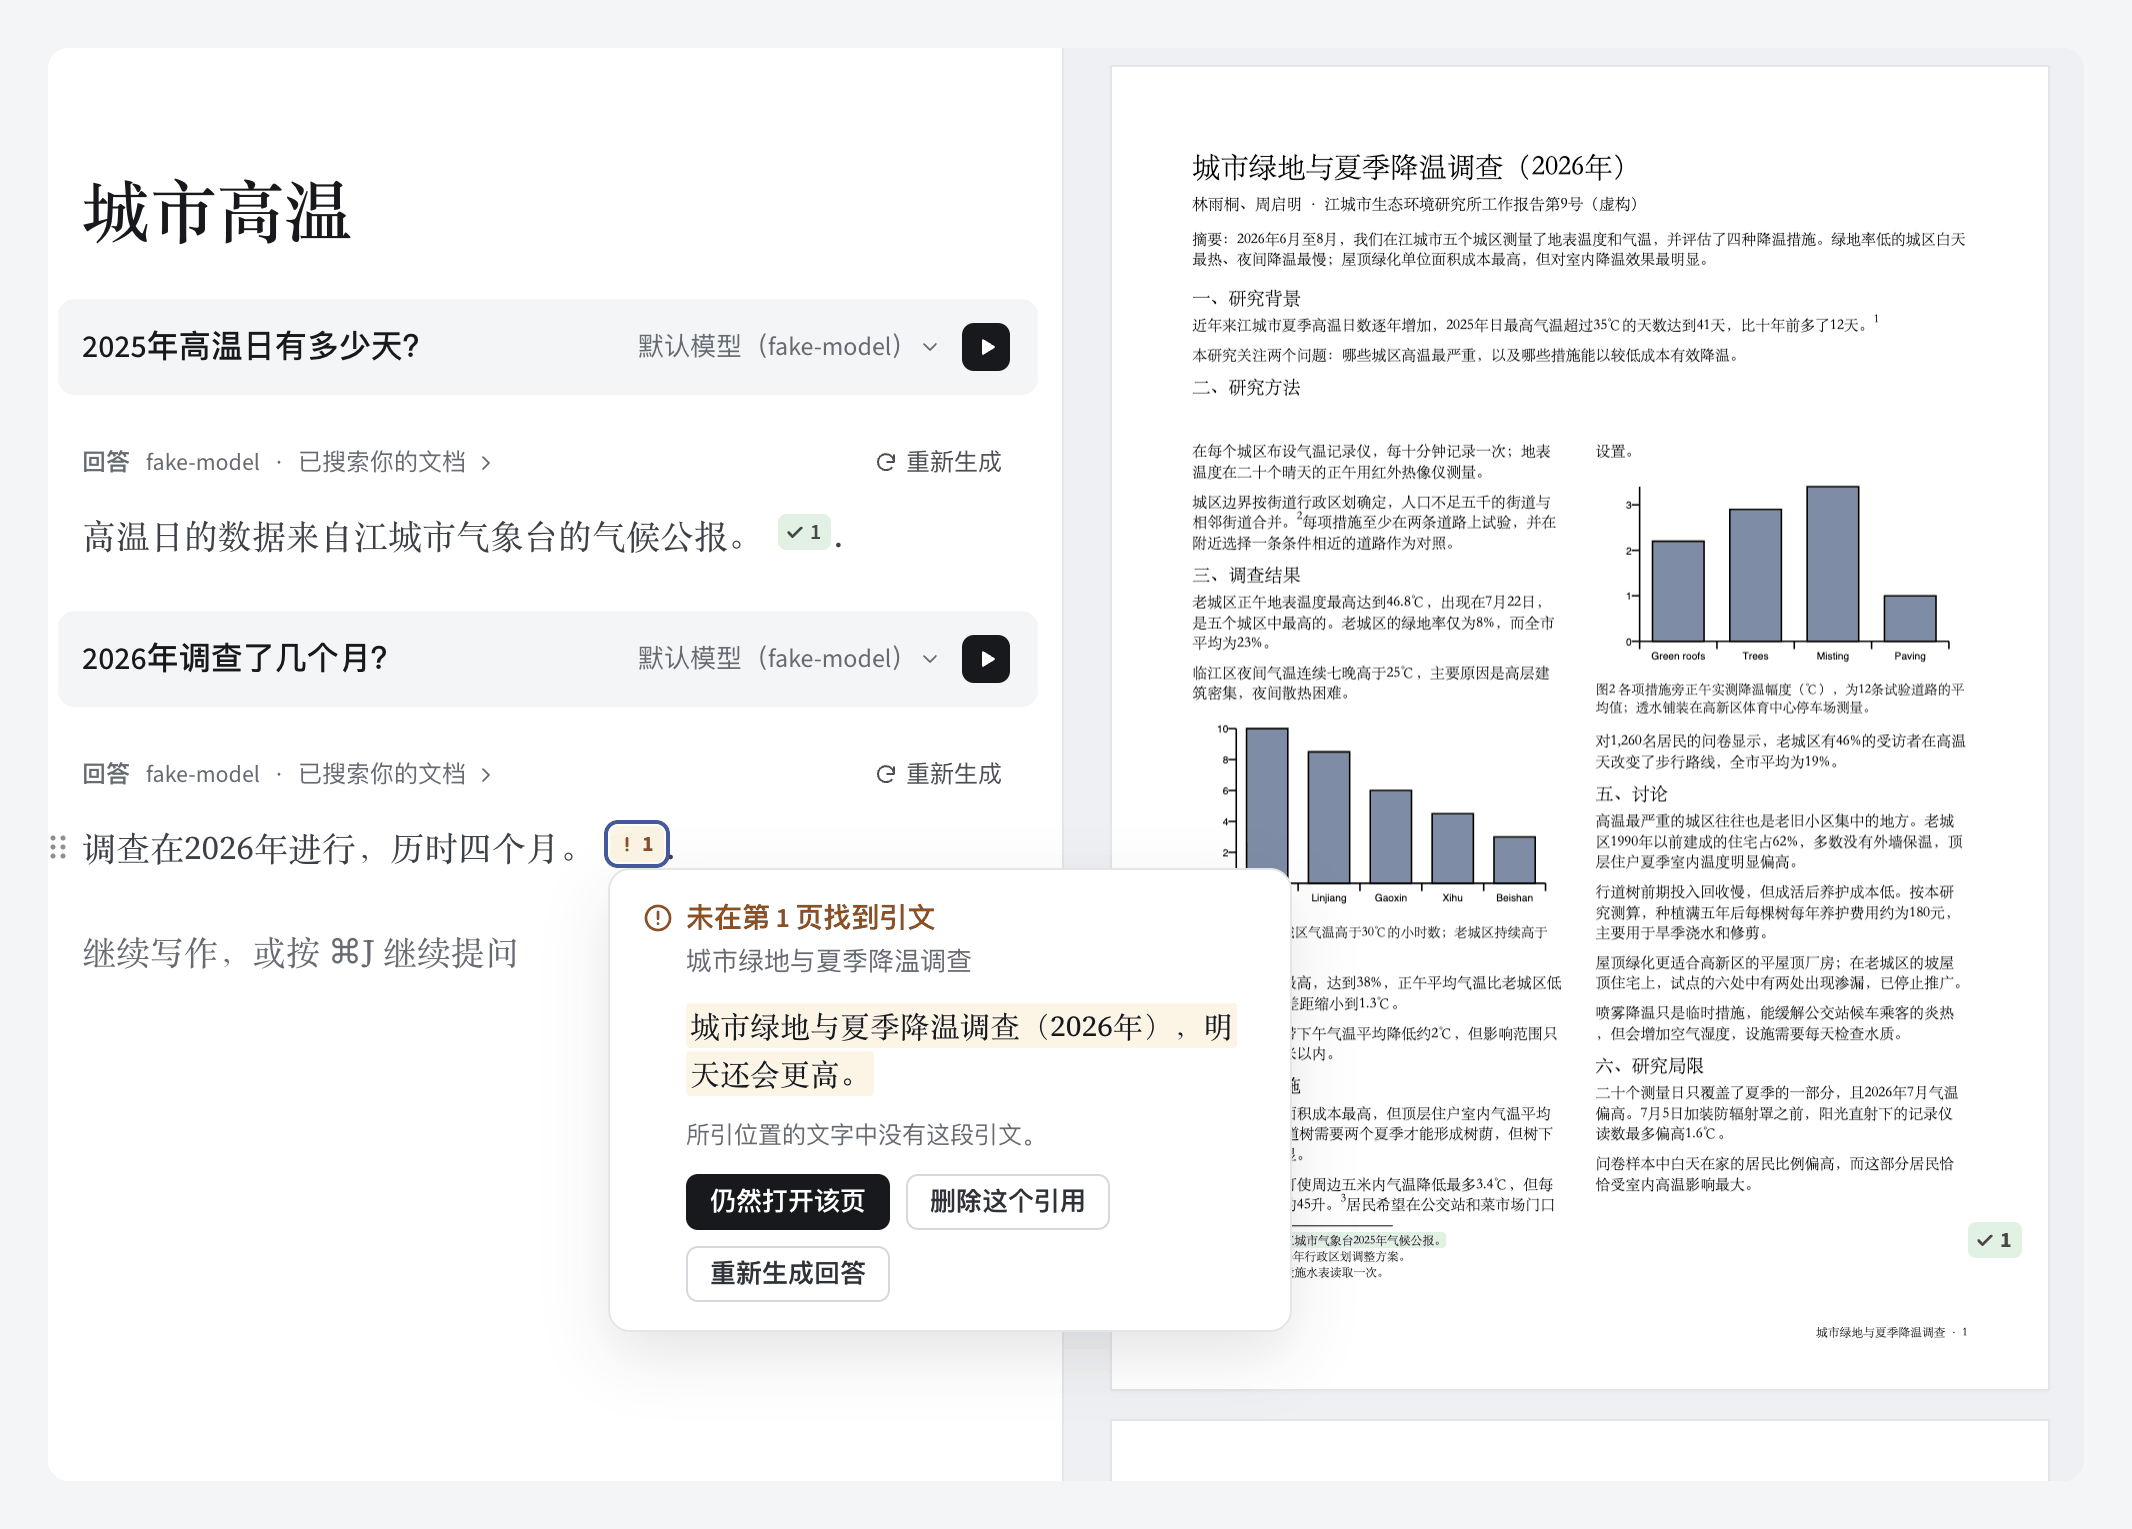
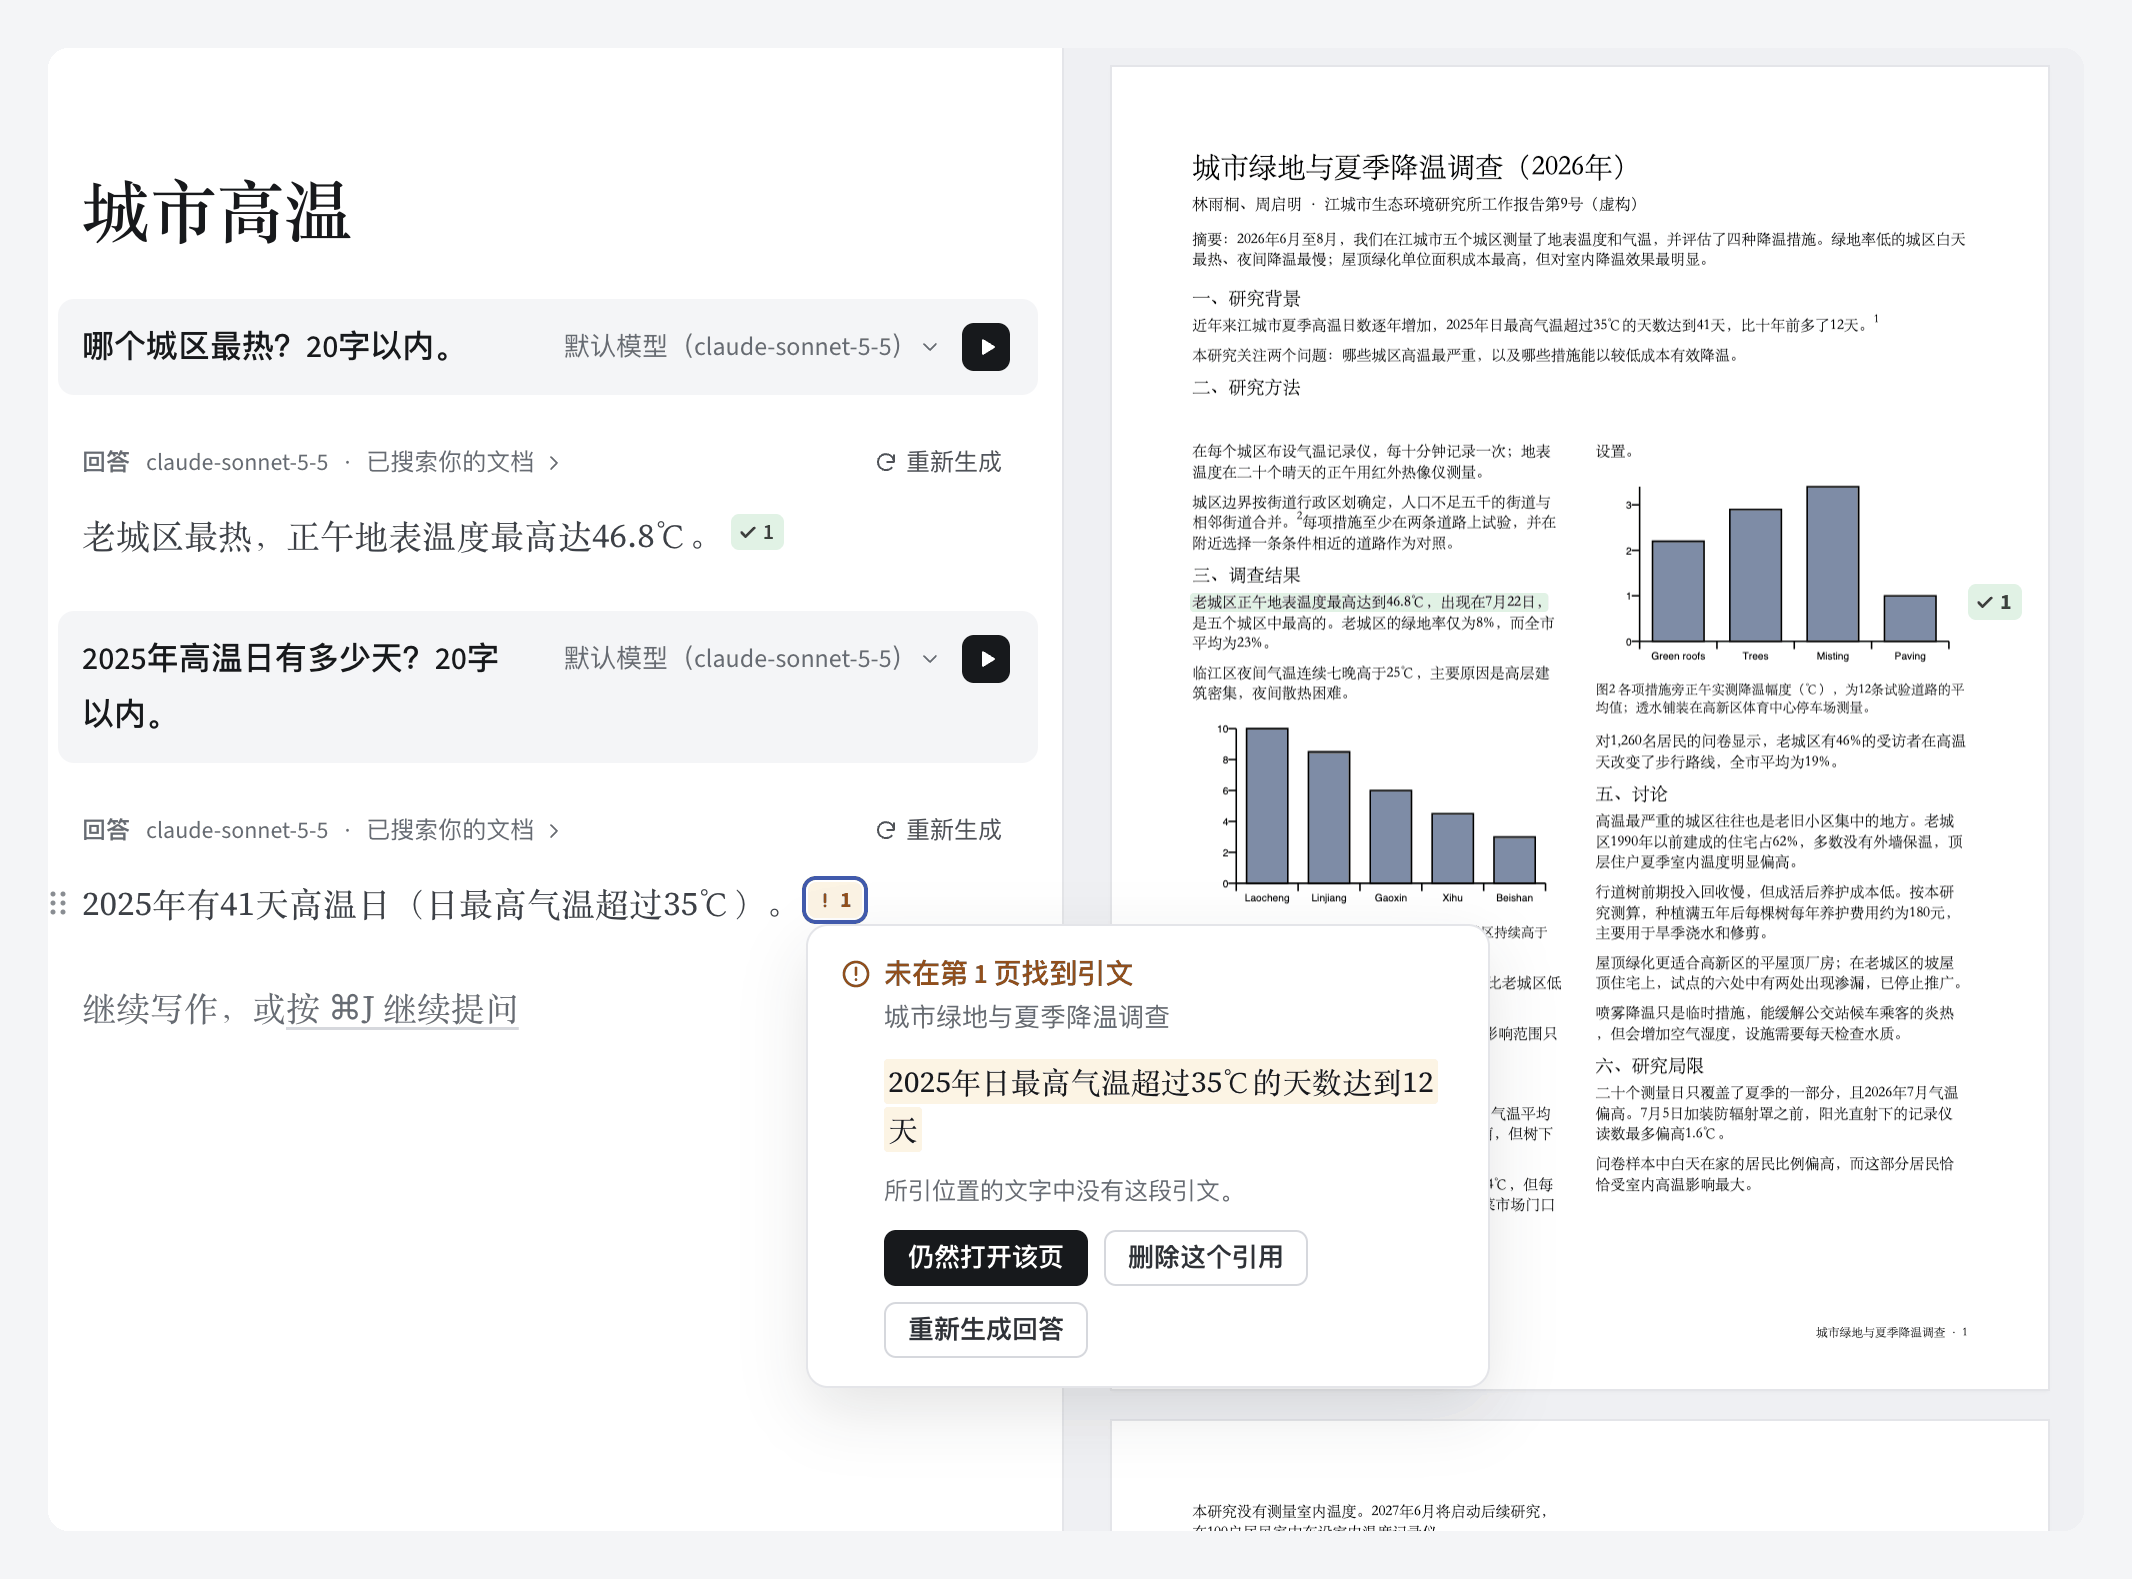
Hero screenshots are made with a real model (Claude Sonnet 5.5) and a caption says the second quote was edited to show a quote that isn't on the page

diff --git a/README.zh-CN.md b/README.zh-CN.md
@@ -27,6 +27,8 @@
   <img src="docs/images/hero-zh.png" width="880" alt="中文界面的笔记本，里面有两个问题和它们的回答，旁边是一份 PDF。第一个回答带编号引用和绿色勾号，引用的引文在 PDF 页面上高亮显示。第二个回答的引用标成橙色，展开的卡片写着“未在第 1 页找到引文”。">
 </p>
 
+<p align="center"><sub>第二条引文是特意改动过的，用来演示引文不在所引页面上时会怎样。</sub></p>
+
 > [!NOTE]
 > **IncarnaMind 还没有正式发布。** 桌面版正在开发。想在第一个版本发布时收到通知，可以点本页右上角的 **Watch → Custom → Releases**。在找 2023 年的命令行版本？它在 [`v1-python-cli`](https://github.com/junruxiong/IncarnaMind/tree/v1-python-cli) 标签下。
 

diff --git a/README.md b/README.md
@@ -27,6 +27,8 @@
   <img src="docs/images/hero.png" width="880" alt="A notebook with two questions and their answers, beside a PDF. The first answer has a numbered citation with a green check mark, and the quote it cites is highlighted on the PDF page. The second answer's citation is marked amber, and its open card says the quote was not found on page 1.">
 </p>
 
+<p align="center"><sub>The second quote was edited to show what happens when a quote isn't on the cited page.</sub></p>
+
 > [!NOTE]
 > **IncarnaMind isn't released yet.** The desktop app is in development. To hear when the first release is out, click **Watch → Custom → Releases** at the top of this page. Looking for the 2023 command-line tool? It's at the [`v1-python-cli`](https://github.com/junruxiong/IncarnaMind/tree/v1-python-cli) tag.
 
